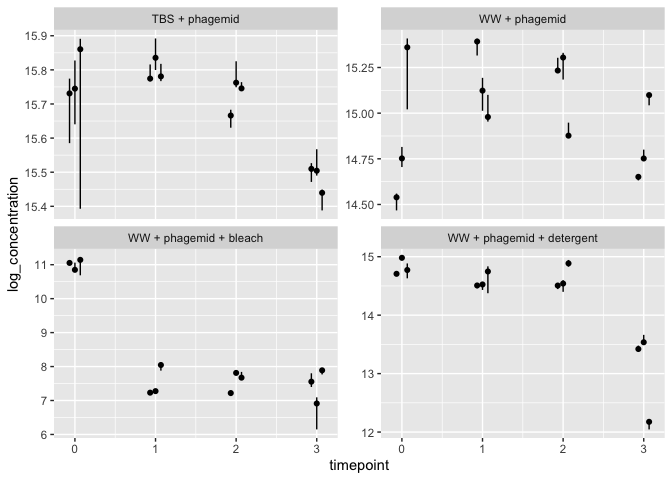
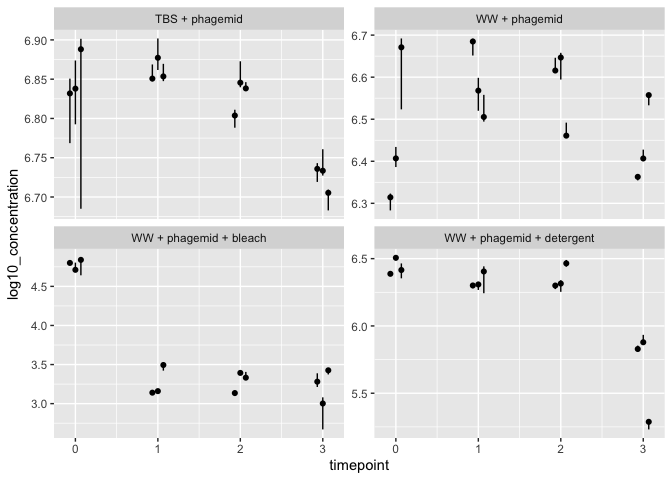
Fix error with the grouping of replicates

diff --git a/qpcr_analysis.md b/qpcr_analysis.md
@@ -325,23 +325,23 @@ data_concentration <- data_tidy |>
   filter(!control) |>
   mutate(
     dilution = (ct - std_curve_intercept) / std_curve_slope,
-    log_concentration = log(concentration_at_d0) + log(dilution_factor) * dilution,
+    log10_concentration = log10(concentration_at_d0) + log10(dilution_factor) * dilution,
   )
 kable(head(data_concentration, n = 10))
 ```
 
-|       ct | treatment_group | timepoint | tech_rep | well_position | ct_threshold | auto_ct_threshold | target_name | control | dilution | log_concentration |
-|---------:|:----------------|----------:|:---------|:--------------|-------------:|:------------------|:------------|:--------|---------:|------------------:|
-| 20.32065 | WW + phagemid   |         0 | 1        | C1            |          0.2 | FALSE             | Barcode_1   | FALSE   | 6.288793 |          14.46750 |
-| 19.76434 | WW + phagemid   |         0 | 2        | C2            |          0.2 | FALSE             | Barcode_1   | FALSE   | 6.439739 |          14.81506 |
-| 18.81370 | WW + phagemid   |         0 | 3        | C3            |          0.2 | FALSE             | Barcode_1   | FALSE   | 6.697681 |          15.40900 |
-| 18.81602 | WW + phagemid   |         1 | 1        | C4            |          0.2 | FALSE             | Barcode_1   | FALSE   | 6.697049 |          15.40754 |
-| 19.44741 | WW + phagemid   |         1 | 2        | C5            |          0.2 | FALSE             | Barcode_1   | FALSE   | 6.525733 |          15.01307 |
-| 19.54228 | WW + phagemid   |         1 | 3        | C6            |          0.2 | FALSE             | Barcode_1   | FALSE   | 6.499993 |          14.95380 |
-| 18.98299 | WW + phagemid   |         2 | 1        | C7            |          0.2 | FALSE             | Barcode_1   | FALSE   | 6.651747 |          15.30323 |
-| 18.98078 | WW + phagemid   |         2 | 2        | C8            |          0.2 | FALSE             | Barcode_1   | FALSE   | 6.652345 |          15.30461 |
-| 19.66541 | WW + phagemid   |         2 | 3        | C9            |          0.2 | FALSE             | Barcode_1   | FALSE   | 6.466582 |          14.87687 |
-| 20.02242 | WW + phagemid   |         3 | 1        | C10           |          0.2 | FALSE             | Barcode_1   | FALSE   | 6.369714 |          14.65382 |
+|       ct | treatment_group | timepoint | tech_rep | well_position | ct_threshold | auto_ct_threshold | target_name | control | dilution | log10_concentration |
+|---------:|:----------------|----------:|:---------|:--------------|-------------:|:------------------|:------------|:--------|---------:|--------------------:|
+| 20.32065 | WW + phagemid   |         0 | 1        | C1            |          0.2 | FALSE             | Barcode_1   | FALSE   | 6.288793 |            6.283155 |
+| 19.76434 | WW + phagemid   |         0 | 2        | C2            |          0.2 | FALSE             | Barcode_1   | FALSE   | 6.439739 |            6.434100 |
+| 18.81370 | WW + phagemid   |         0 | 3        | C3            |          0.2 | FALSE             | Barcode_1   | FALSE   | 6.697681 |            6.692042 |
+| 18.81602 | WW + phagemid   |         1 | 1        | C4            |          0.2 | FALSE             | Barcode_1   | FALSE   | 6.697049 |            6.691410 |
+| 19.44741 | WW + phagemid   |         1 | 2        | C5            |          0.2 | FALSE             | Barcode_1   | FALSE   | 6.525733 |            6.520094 |
+| 19.54228 | WW + phagemid   |         1 | 3        | C6            |          0.2 | FALSE             | Barcode_1   | FALSE   | 6.499993 |            6.494354 |
+| 18.98299 | WW + phagemid   |         2 | 1        | C7            |          0.2 | FALSE             | Barcode_1   | FALSE   | 6.651747 |            6.646108 |
+| 18.98078 | WW + phagemid   |         2 | 2        | C8            |          0.2 | FALSE             | Barcode_1   | FALSE   | 6.652345 |            6.646706 |
+| 19.66541 | WW + phagemid   |         2 | 3        | C9            |          0.2 | FALSE             | Barcode_1   | FALSE   | 6.466582 |            6.460943 |
+| 20.02242 | WW + phagemid   |         3 | 1        | C10           |          0.2 | FALSE             | Barcode_1   | FALSE   | 6.369714 |            6.364075 |
 
 Since we have three PCR replicates per technical replicate, we can
 summarize our data with min, median, and max without any loss of
@@ -351,64 +351,64 @@ information.
 data_concentration |>
   group_by(treatment_group, timepoint, tech_rep) |>
   summarize(
-    conc_min = min(log_concentration, na.rm = TRUE),
-    conc_med = median(log_concentration, na.rm = TRUE),
-    conc_max = max(log_concentration, na.rm = TRUE),
+    conc_min = min(log10_concentration, na.rm = TRUE),
+    conc_med = median(log10_concentration, na.rm = TRUE),
+    conc_max = max(log10_concentration, na.rm = TRUE),
     .groups="drop"
   ) |> 
   kable()
 ```
 
-| treatment_group           | timepoint | tech_rep |  conc_min |  conc_med |  conc_max |
-|:--------------------------|----------:|:---------|----------:|----------:|----------:|
-| TBS + phagemid            |         0 | 1        | 15.585203 | 15.730980 | 15.774331 |
-| TBS + phagemid            |         0 | 2        | 15.640385 | 15.744967 | 15.827471 |
-| TBS + phagemid            |         0 | 3        | 15.392854 | 15.860508 | 15.891046 |
-| TBS + phagemid            |         1 | 1        | 15.766611 | 15.774405 | 15.815867 |
-| TBS + phagemid            |         1 | 2        | 15.799626 | 15.835428 | 15.892060 |
-| TBS + phagemid            |         1 | 3        | 15.766942 | 15.780796 | 15.817647 |
-| TBS + phagemid            |         2 | 1        | 15.630437 | 15.666167 | 15.683122 |
-| TBS + phagemid            |         2 | 2        | 15.748995 | 15.762468 | 15.825183 |
-| TBS + phagemid            |         2 | 3        | 15.745316 | 15.745680 | 15.763973 |
-| TBS + phagemid            |         3 | 1        | 15.471512 | 15.509831 | 15.526576 |
-| TBS + phagemid            |         3 | 2        | 15.490110 | 15.504371 | 15.567375 |
-| TBS + phagemid            |         3 | 3        | 15.388014 | 15.439595 | 15.448920 |
-| WW + phagemid             |         0 | 1        | 14.467498 | 14.539121 | 14.559697 |
-| WW + phagemid             |         0 | 2        | 14.704875 | 14.752250 | 14.815063 |
-| WW + phagemid             |         0 | 3        | 15.020836 | 15.360500 | 15.408997 |
-| WW + phagemid             |         1 | 1        | 15.315593 | 15.392311 | 15.407542 |
-| WW + phagemid             |         1 | 2        | 15.013071 | 15.123416 | 15.193376 |
-| WW + phagemid             |         1 | 3        | 14.953803 | 14.979106 | 15.100242 |
-| WW + phagemid             |         2 | 1        | 15.222434 | 15.233419 | 15.303230 |
-| WW + phagemid             |         2 | 2        | 15.183994 | 15.304607 | 15.330360 |
-| WW + phagemid             |         2 | 3        | 14.873419 | 14.876872 | 14.948056 |
-| WW + phagemid             |         3 | 1        | 14.631852 | 14.651272 | 14.653825 |
-| WW + phagemid             |         3 | 2        | 14.742572 | 14.751832 | 14.800324 |
-| WW + phagemid             |         3 | 3        | 15.042985 | 15.098861 | 15.100316 |
-| WW + phagemid + bleach    |         0 | 1        | 11.023879 | 11.052359 | 11.103619 |
-| WW + phagemid + bleach    |         0 | 2        | 10.819916 | 10.849192 | 11.061266 |
-| WW + phagemid + bleach    |         0 | 3        | 10.687431 | 11.142662 | 11.213070 |
-| WW + phagemid + bleach    |         1 | 1        |  7.185397 |  7.231021 |  7.245195 |
-| WW + phagemid + bleach    |         1 | 2        |  7.247885 |  7.276237 |  7.328588 |
-| WW + phagemid + bleach    |         1 | 3        |  7.880027 |  8.045826 |  8.107687 |
-| WW + phagemid + bleach    |         2 | 1        |  7.131532 |  7.219262 |  7.287010 |
-| WW + phagemid + bleach    |         2 | 2        |  7.770489 |  7.813055 |  7.832202 |
-| WW + phagemid + bleach    |         2 | 3        |  7.650187 |  7.672781 |  7.842286 |
-| WW + phagemid + bleach    |         3 | 1        |  7.398282 |  7.554920 |  7.801422 |
-| WW + phagemid + bleach    |         3 | 2        |  6.148432 |  6.912249 |  7.093166 |
-| WW + phagemid + bleach    |         3 | 3        |  7.767307 |  7.889023 |  7.912897 |
-| WW + phagemid + detergent |         0 | 1        | 14.691215 | 14.707181 | 14.723714 |
-| WW + phagemid + detergent |         0 | 2        | 14.937496 | 14.981082 | 14.986873 |
-| WW + phagemid + detergent |         0 | 3        | 14.630075 | 14.772313 | 14.884848 |
-| WW + phagemid + detergent |         1 | 1        | 14.460672 | 14.507884 | 14.530743 |
-| WW + phagemid + detergent |         1 | 2        | 14.431200 | 14.524827 | 14.569874 |
-| WW + phagemid + detergent |         1 | 3        | 14.375207 | 14.747474 | 14.834689 |
-| WW + phagemid + detergent |         2 | 1        | 14.445850 | 14.506649 | 14.514520 |
-| WW + phagemid + detergent |         2 | 2        | 14.399098 | 14.540501 | 14.597506 |
-| WW + phagemid + detergent |         2 | 3        | 14.829546 | 14.885799 | 14.944224 |
-| WW + phagemid + detergent |         3 | 1        | 13.393890 | 13.420946 | 13.479134 |
-| WW + phagemid + detergent |         3 | 2        | 13.508365 | 13.536396 | 13.662985 |
-| WW + phagemid + detergent |         3 | 3        | 12.045272 | 12.175395 | 12.181063 |
+| treatment_group           | timepoint | tech_rep | conc_min | conc_med | conc_max |
+|:--------------------------|----------:|:---------|---------:|---------:|---------:|
+| TBS + phagemid            |         0 | 1        | 6.768568 | 6.831878 | 6.850705 |
+| TBS + phagemid            |         0 | 2        | 6.792533 | 6.837952 | 6.873783 |
+| TBS + phagemid            |         0 | 3        | 6.685031 | 6.888131 | 6.901394 |
+| TBS + phagemid            |         1 | 1        | 6.847352 | 6.850737 | 6.868744 |
+| TBS + phagemid            |         1 | 2        | 6.861691 | 6.877239 | 6.901834 |
+| TBS + phagemid            |         1 | 3        | 6.847496 | 6.853513 | 6.869517 |
+| TBS + phagemid            |         2 | 1        | 6.788213 | 6.803730 | 6.811093 |
+| TBS + phagemid            |         2 | 2        | 6.839702 | 6.845553 | 6.872789 |
+| TBS + phagemid            |         2 | 3        | 6.838104 | 6.838262 | 6.846207 |
+| TBS + phagemid            |         3 | 1        | 6.719192 | 6.735834 | 6.743106 |
+| TBS + phagemid            |         3 | 2        | 6.727269 | 6.733463 | 6.760825 |
+| TBS + phagemid            |         3 | 3        | 6.682930 | 6.705331 | 6.709381 |
+| WW + phagemid             |         0 | 1        | 6.283155 | 6.314260 | 6.323196 |
+| WW + phagemid             |         0 | 2        | 6.386246 | 6.406821 | 6.434100 |
+| WW + phagemid             |         0 | 3        | 6.523466 | 6.670980 | 6.692042 |
+| WW + phagemid             |         1 | 1        | 6.651478 | 6.684796 | 6.691410 |
+| WW + phagemid             |         1 | 2        | 6.520094 | 6.568016 | 6.598399 |
+| WW + phagemid             |         1 | 3        | 6.494354 | 6.505343 | 6.557952 |
+| WW + phagemid             |         2 | 1        | 6.611019 | 6.615790 | 6.646108 |
+| WW + phagemid             |         2 | 2        | 6.594325 | 6.646706 | 6.657891 |
+| WW + phagemid             |         2 | 3        | 6.459444 | 6.460943 | 6.491859 |
+| WW + phagemid             |         3 | 1        | 6.354533 | 6.362967 | 6.364075 |
+| WW + phagemid             |         3 | 2        | 6.402617 | 6.406639 | 6.427699 |
+| WW + phagemid             |         3 | 3        | 6.533085 | 6.557352 | 6.557984 |
+| WW + phagemid + bleach    |         0 | 1        | 4.787610 | 4.799978 | 4.822240 |
+| WW + phagemid + bleach    |         0 | 2        | 4.699030 | 4.711744 | 4.803847 |
+| WW + phagemid + bleach    |         0 | 3        | 4.641492 | 4.839197 | 4.869774 |
+| WW + phagemid + bleach    |         1 | 1        | 3.120579 | 3.140393 | 3.146548 |
+| WW + phagemid + bleach    |         1 | 2        | 3.147717 | 3.160030 | 3.182765 |
+| WW + phagemid + bleach    |         1 | 3        | 3.422252 | 3.494258 | 3.521124 |
+| WW + phagemid + bleach    |         2 | 1        | 3.097185 | 3.135286 | 3.164708 |
+| WW + phagemid + bleach    |         2 | 2        | 3.374681 | 3.393167 | 3.401482 |
+| WW + phagemid + bleach    |         2 | 3        | 3.322434 | 3.332246 | 3.405861 |
+| WW + phagemid + bleach    |         3 | 1        | 3.213033 | 3.281060 | 3.388114 |
+| WW + phagemid + bleach    |         3 | 2        | 2.670230 | 3.001952 | 3.080523 |
+| WW + phagemid + bleach    |         3 | 3        | 3.373299 | 3.426159 | 3.436528 |
+| WW + phagemid + detergent |         0 | 1        | 6.380314 | 6.387247 | 6.394428 |
+| WW + phagemid + detergent |         0 | 2        | 6.487272 | 6.506201 | 6.508716 |
+| WW + phagemid + detergent |         0 | 3        | 6.353761 | 6.415534 | 6.464407 |
+| WW + phagemid + detergent |         1 | 1        | 6.280190 | 6.300694 | 6.310621 |
+| WW + phagemid + detergent |         1 | 2        | 6.267391 | 6.308052 | 6.327616 |
+| WW + phagemid + detergent |         1 | 3        | 6.243073 | 6.404747 | 6.442623 |
+| WW + phagemid + detergent |         2 | 1        | 6.273753 | 6.300157 | 6.303576 |
+| WW + phagemid + detergent |         2 | 2        | 6.253449 | 6.314859 | 6.339616 |
+| WW + phagemid + detergent |         2 | 3        | 6.440390 | 6.464820 | 6.490194 |
+| WW + phagemid + detergent |         3 | 1        | 5.816892 | 5.828643 | 5.853913 |
+| WW + phagemid + detergent |         3 | 2        | 5.866608 | 5.878782 | 5.933759 |
+| WW + phagemid + detergent |         3 | 3        | 5.231195 | 5.287707 | 5.290168 |
 
 # Plot log concentrations vs time for each condition
 
@@ -418,7 +418,7 @@ differences in absolute as well as relative concentration.
 ``` r
 data_concentration |> 
   ggplot(
-    aes(timepoint, log_concentration, shape = treatment_group, color = treatment_group)
+    aes(timepoint, log10_concentration, shape = treatment_group, color = treatment_group)
     ) +
   geom_point(
     position = position_jitter(height = 0, width = 0.1, seed = 3579237)
@@ -431,7 +431,7 @@ Let’s look at within- vs between-technical replicate variation:
 
 ``` r
 data_concentration |>
-  ggplot(aes(timepoint,log_concentration, group = tech_rep)) +
+  ggplot(aes(timepoint,log10_concentration, group = tech_rep)) +
   stat_summary(
     fun.min = min,
     fun.max = max,
@@ -451,7 +451,7 @@ replicates, so let’s let the y-axis vary:
 
 ``` r
 data_concentration |>
-  ggplot(aes(timepoint,log_concentration, group = tech_rep)) +
+  ggplot(aes(timepoint,log10_concentration, group = tech_rep)) +
   stat_summary(
     fun.min = min,
     fun.max = max,
@@ -489,7 +489,7 @@ We can use a Loess curve to see the trend for each treatment:
 
 ``` r
 data_concentration |>
-  ggplot(aes(timepoint, log_concentration, color=treatment_group)) +
+  ggplot(aes(timepoint, log10_concentration, color=treatment_group)) +
   geom_point() +
   geom_smooth()
 ```
@@ -503,7 +503,7 @@ can also use a linear model:
 
 ``` r
 data_concentration |>
-  ggplot(aes(timepoint, log_concentration, color=treatment_group)) +
+  ggplot(aes(timepoint, log10_concentration, color=treatment_group)) +
   geom_point() +
   geom_smooth(
     method = "lm"
@@ -518,7 +518,7 @@ data_concentration |>
 treatments_to_keep <- unique(data_concentration$treatment_group) 
 models <- treatments_to_keep |> 
   map(~ filter(data_concentration, treatment_group == .)) |>
-  map(~ lm(log_concentration ~ timepoint, .)) |>
+  map(~ lm(log10_concentration ~ timepoint, .)) |>
   map(tidy) |>
   map2(
     treatments_to_keep,
@@ -530,14 +530,14 @@ kable(models)
 
 | treatment_group           | collapsed | term        |   estimate | std.error |   statistic |   p.value |
 |:--------------------------|:----------|:------------|-----------:|----------:|------------:|----------:|
-| WW + phagemid             | FALSE     | (Intercept) | 15.0071602 | 0.0783592 | 191.5175973 | 0.0000000 |
-| WW + phagemid             | FALSE     | timepoint   | -0.0074119 | 0.0418847 |  -0.1769585 | 0.8605909 |
-| WW + phagemid + detergent | FALSE     | (Intercept) | 15.0443407 | 0.1526598 |  98.5481520 | 0.0000000 |
-| WW + phagemid + detergent | FALSE     | timepoint   | -0.5228103 | 0.0816001 |  -6.4069822 | 0.0000003 |
-| WW + phagemid + bleach    | FALSE     | (Intercept) |  9.9792068 | 0.2863794 |  34.8461059 | 0.0000000 |
-| WW + phagemid + bleach    | FALSE     | timepoint   | -1.0750682 | 0.1530762 |  -7.0230909 | 0.0000000 |
-| TBS + phagemid            | FALSE     | (Intercept) | 15.8001163 | 0.0342951 | 460.7106971 | 0.0000000 |
-| TBS + phagemid            | FALSE     | timepoint   | -0.0775818 | 0.0183315 |  -4.2321566 | 0.0001657 |
+| WW + phagemid             | FALSE     | (Intercept) |  6.5175269 | 0.0340310 | 191.5175973 | 0.0000000 |
+| WW + phagemid             | FALSE     | timepoint   | -0.0032189 | 0.0181903 |  -0.1769585 | 0.8605909 |
+| WW + phagemid + detergent | FALSE     | (Intercept) |  6.5336741 | 0.0662993 |  98.5481520 | 0.0000000 |
+| WW + phagemid + detergent | FALSE     | timepoint   | -0.2270536 | 0.0354385 |  -6.4069822 | 0.0000003 |
+| WW + phagemid + bleach    | FALSE     | (Intercept) |  4.3339145 | 0.1243730 |  34.8461059 | 0.0000000 |
+| WW + phagemid + bleach    | FALSE     | timepoint   | -0.4668962 | 0.0664802 |  -7.0230909 | 0.0000000 |
+| TBS + phagemid            | FALSE     | (Intercept) |  6.8619033 | 0.0148942 | 460.7106971 | 0.0000000 |
+| TBS + phagemid            | FALSE     | timepoint   | -0.0336933 | 0.0079613 |  -4.2321566 | 0.0001657 |
 
 ## Collapsing qPCR replicates
 
@@ -545,20 +545,28 @@ Now, we create a new table that collapses the qPCR replicates:
 
 ``` r
 data_collapsed <- data_concentration |> 
-  group_by(treatment_group, timepoint) |>
-  summarise(log_concentration = mean(log_concentration), .groups="drop")
+  group_by(treatment_group, timepoint, tech_rep) |>
+  summarise(log10_concentration = mean(log10_concentration), .groups="drop")
 ```
 
-The Loess smoother is uninteresting because it will just draw a curve
-through the points with no error.
-
-On the other hand, we now have much wider error bars on our linear
-estimates. Just as the independent approximation meant that the errors
-were too optimistic, this approximation is too conservative.
+With the collapse, we have wider error bars on our linear estimates.
+Just as the independent approximation meant that the errors were too
+optimistic, this approximation is too conservative.
 
 ``` r
 data_collapsed |>
-  ggplot(aes(timepoint, log_concentration, color=treatment_group)) +
+  ggplot(aes(timepoint, log10_concentration, color=treatment_group)) +
+  geom_point() +
+  geom_smooth()
+```
+
+    ## `geom_smooth()` using method = 'loess' and formula = 'y ~ x'
+
+![](qpcr_analysis_files/figure-gfm/unnamed-chunk-20-1.png)<!-- -->
+
+``` r
+data_collapsed |>
+  ggplot(aes(timepoint, log10_concentration, color=treatment_group)) +
   geom_point() +
   geom_smooth(
     method = "lm"
@@ -567,7 +575,7 @@ data_collapsed |>
 
     ## `geom_smooth()` using formula = 'y ~ x'
 
-![](qpcr_analysis_files/figure-gfm/unnamed-chunk-20-1.png)<!-- -->
+![](qpcr_analysis_files/figure-gfm/unnamed-chunk-21-1.png)<!-- -->
 
 We can fit linear models separately for each timepoint and examine the
 coefficients and standard errors:
@@ -575,7 +583,7 @@ coefficients and standard errors:
 ``` r
 models_collapsed <- treatments_to_keep |> 
   map(~ filter(data_collapsed, treatment_group == .)) |>
-  map(~ lm(log_concentration ~ timepoint, .)) |>
+  map(~ lm(log10_concentration ~ timepoint, .)) |>
   map(tidy) |>
   map2(
     treatments_to_keep,
@@ -585,16 +593,16 @@ models_collapsed <- treatments_to_keep |>
 kable(models_collapsed)
 ```
 
-| treatment_group           | collapsed | term        |   estimate | std.error |   statistic |   p.value |
-|:--------------------------|:----------|:------------|-----------:|----------:|------------:|----------:|
-| WW + phagemid             | TRUE      | (Intercept) | 15.0071602 | 0.1858890 |  80.7318212 | 0.0001534 |
-| WW + phagemid             | TRUE      | timepoint   | -0.0074119 | 0.0993619 |  -0.0745946 | 0.9473269 |
-| WW + phagemid + detergent | TRUE      | (Intercept) | 15.0443407 | 0.4725921 |  31.8336698 | 0.0009853 |
-| WW + phagemid + detergent | TRUE      | timepoint   | -0.5228103 | 0.2526111 |  -2.0696254 | 0.1743497 |
-| WW + phagemid + bleach    | TRUE      | (Intercept) |  9.9792068 | 1.0988973 |   9.0811095 | 0.0119099 |
-| WW + phagemid + bleach    | TRUE      | timepoint   | -1.0750682 | 0.5873853 |  -1.8302607 | 0.2086985 |
-| TBS + phagemid            | TRUE      | (Intercept) | 15.8001163 | 0.0994830 | 158.8222377 | 0.0000396 |
-| TBS + phagemid            | TRUE      | timepoint   | -0.0775818 | 0.0531759 |  -1.4589646 | 0.2819668 |
+| treatment_group           | collapsed | term        |   estimate | std.error |  statistic |   p.value |
+|:--------------------------|:----------|:------------|-----------:|----------:|-----------:|----------:|
+| WW + phagemid             | TRUE      | (Intercept) |  6.5175269 | 0.0608769 | 107.060722 | 0.0000000 |
+| WW + phagemid             | TRUE      | timepoint   | -0.0032189 | 0.0325401 |  -0.098922 | 0.9231551 |
+| WW + phagemid + detergent | TRUE      | (Intercept) |  6.5336741 | 0.1208882 |  54.047265 | 0.0000000 |
+| WW + phagemid + detergent | TRUE      | timepoint   | -0.2270536 | 0.0646174 |  -3.513814 | 0.0055959 |
+| WW + phagemid + bleach    | TRUE      | (Intercept) |  4.3339145 | 0.2265403 |  19.130880 | 0.0000000 |
+| WW + phagemid + bleach    | TRUE      | timepoint   | -0.4668962 | 0.1210909 |  -3.855751 | 0.0031822 |
+| TBS + phagemid            | TRUE      | (Intercept) |  6.8619033 | 0.0210399 | 326.137321 | 0.0000000 |
+| TBS + phagemid            | TRUE      | timepoint   | -0.0336933 | 0.0112463 |  -2.995946 | 0.0134364 |
 
 Collapsing the qPCR replicates increases the standard error of the
 regression coefficients:
@@ -607,6 +615,6 @@ rbind(models, models_collapsed) |>
   geom_point()
 ```
 
-![](qpcr_analysis_files/figure-gfm/unnamed-chunk-22-1.png)<!-- -->
+![](qpcr_analysis_files/figure-gfm/unnamed-chunk-23-1.png)<!-- -->
 
 ## Hierarchical model \[TODO\]
